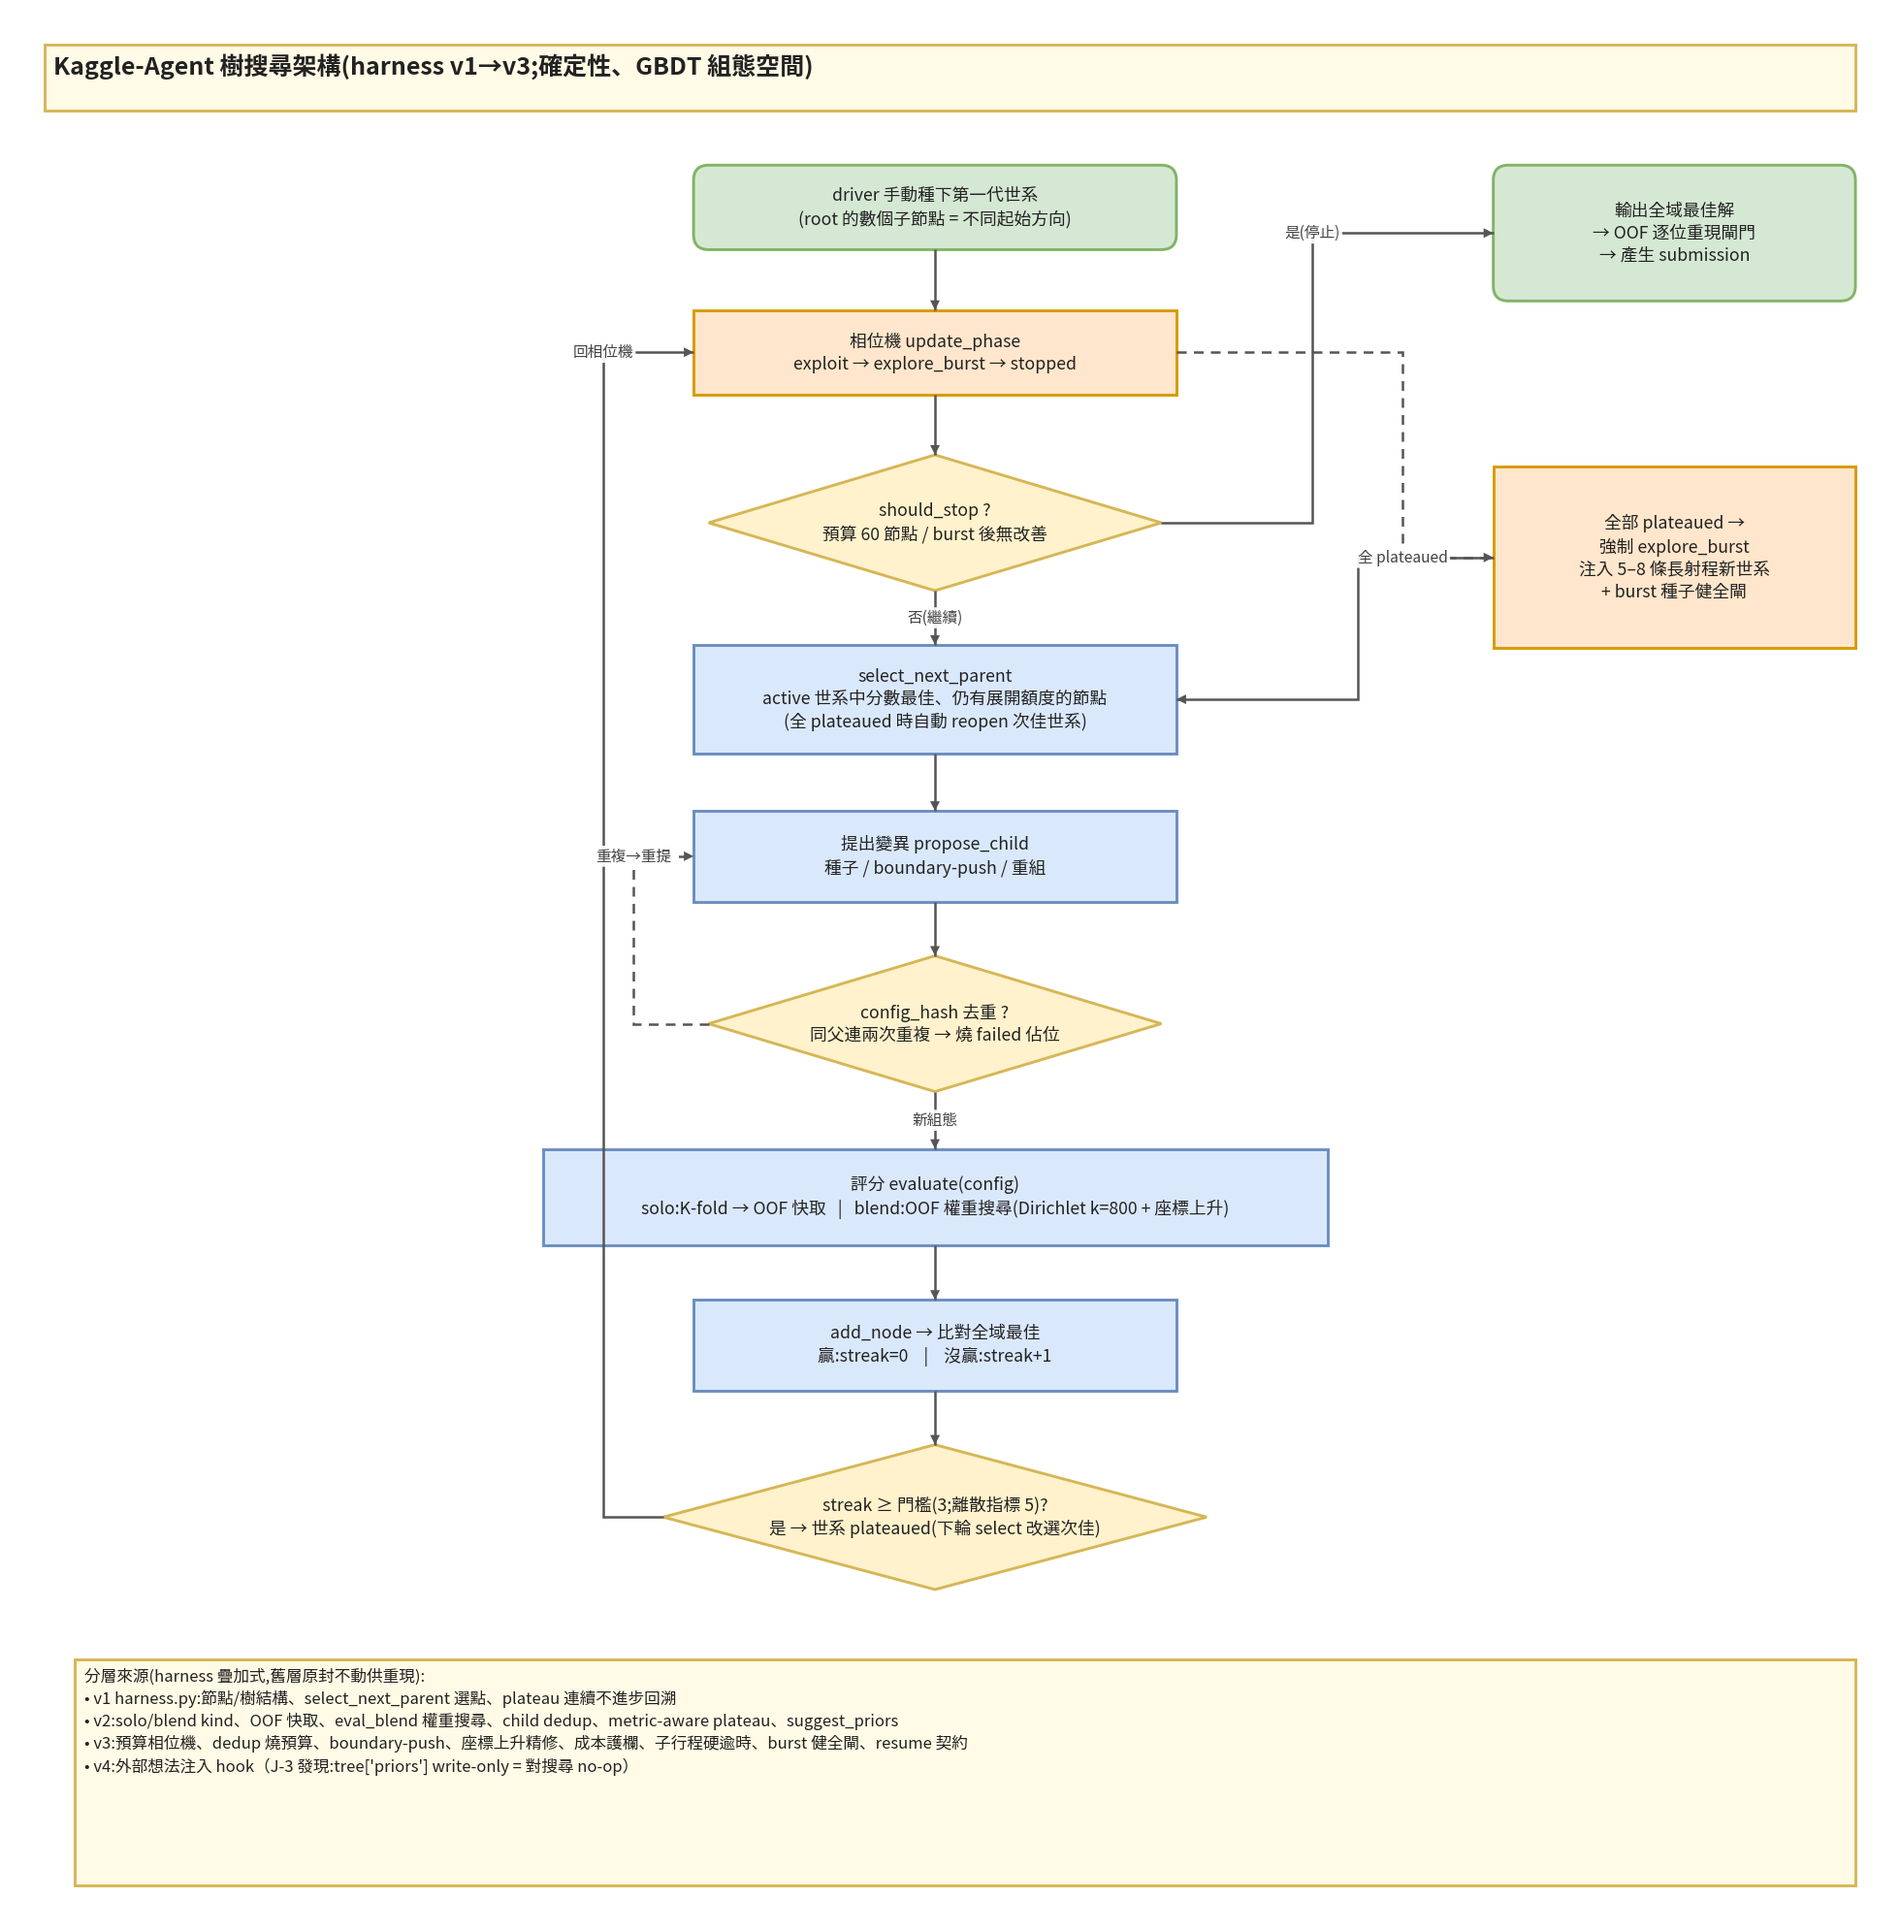
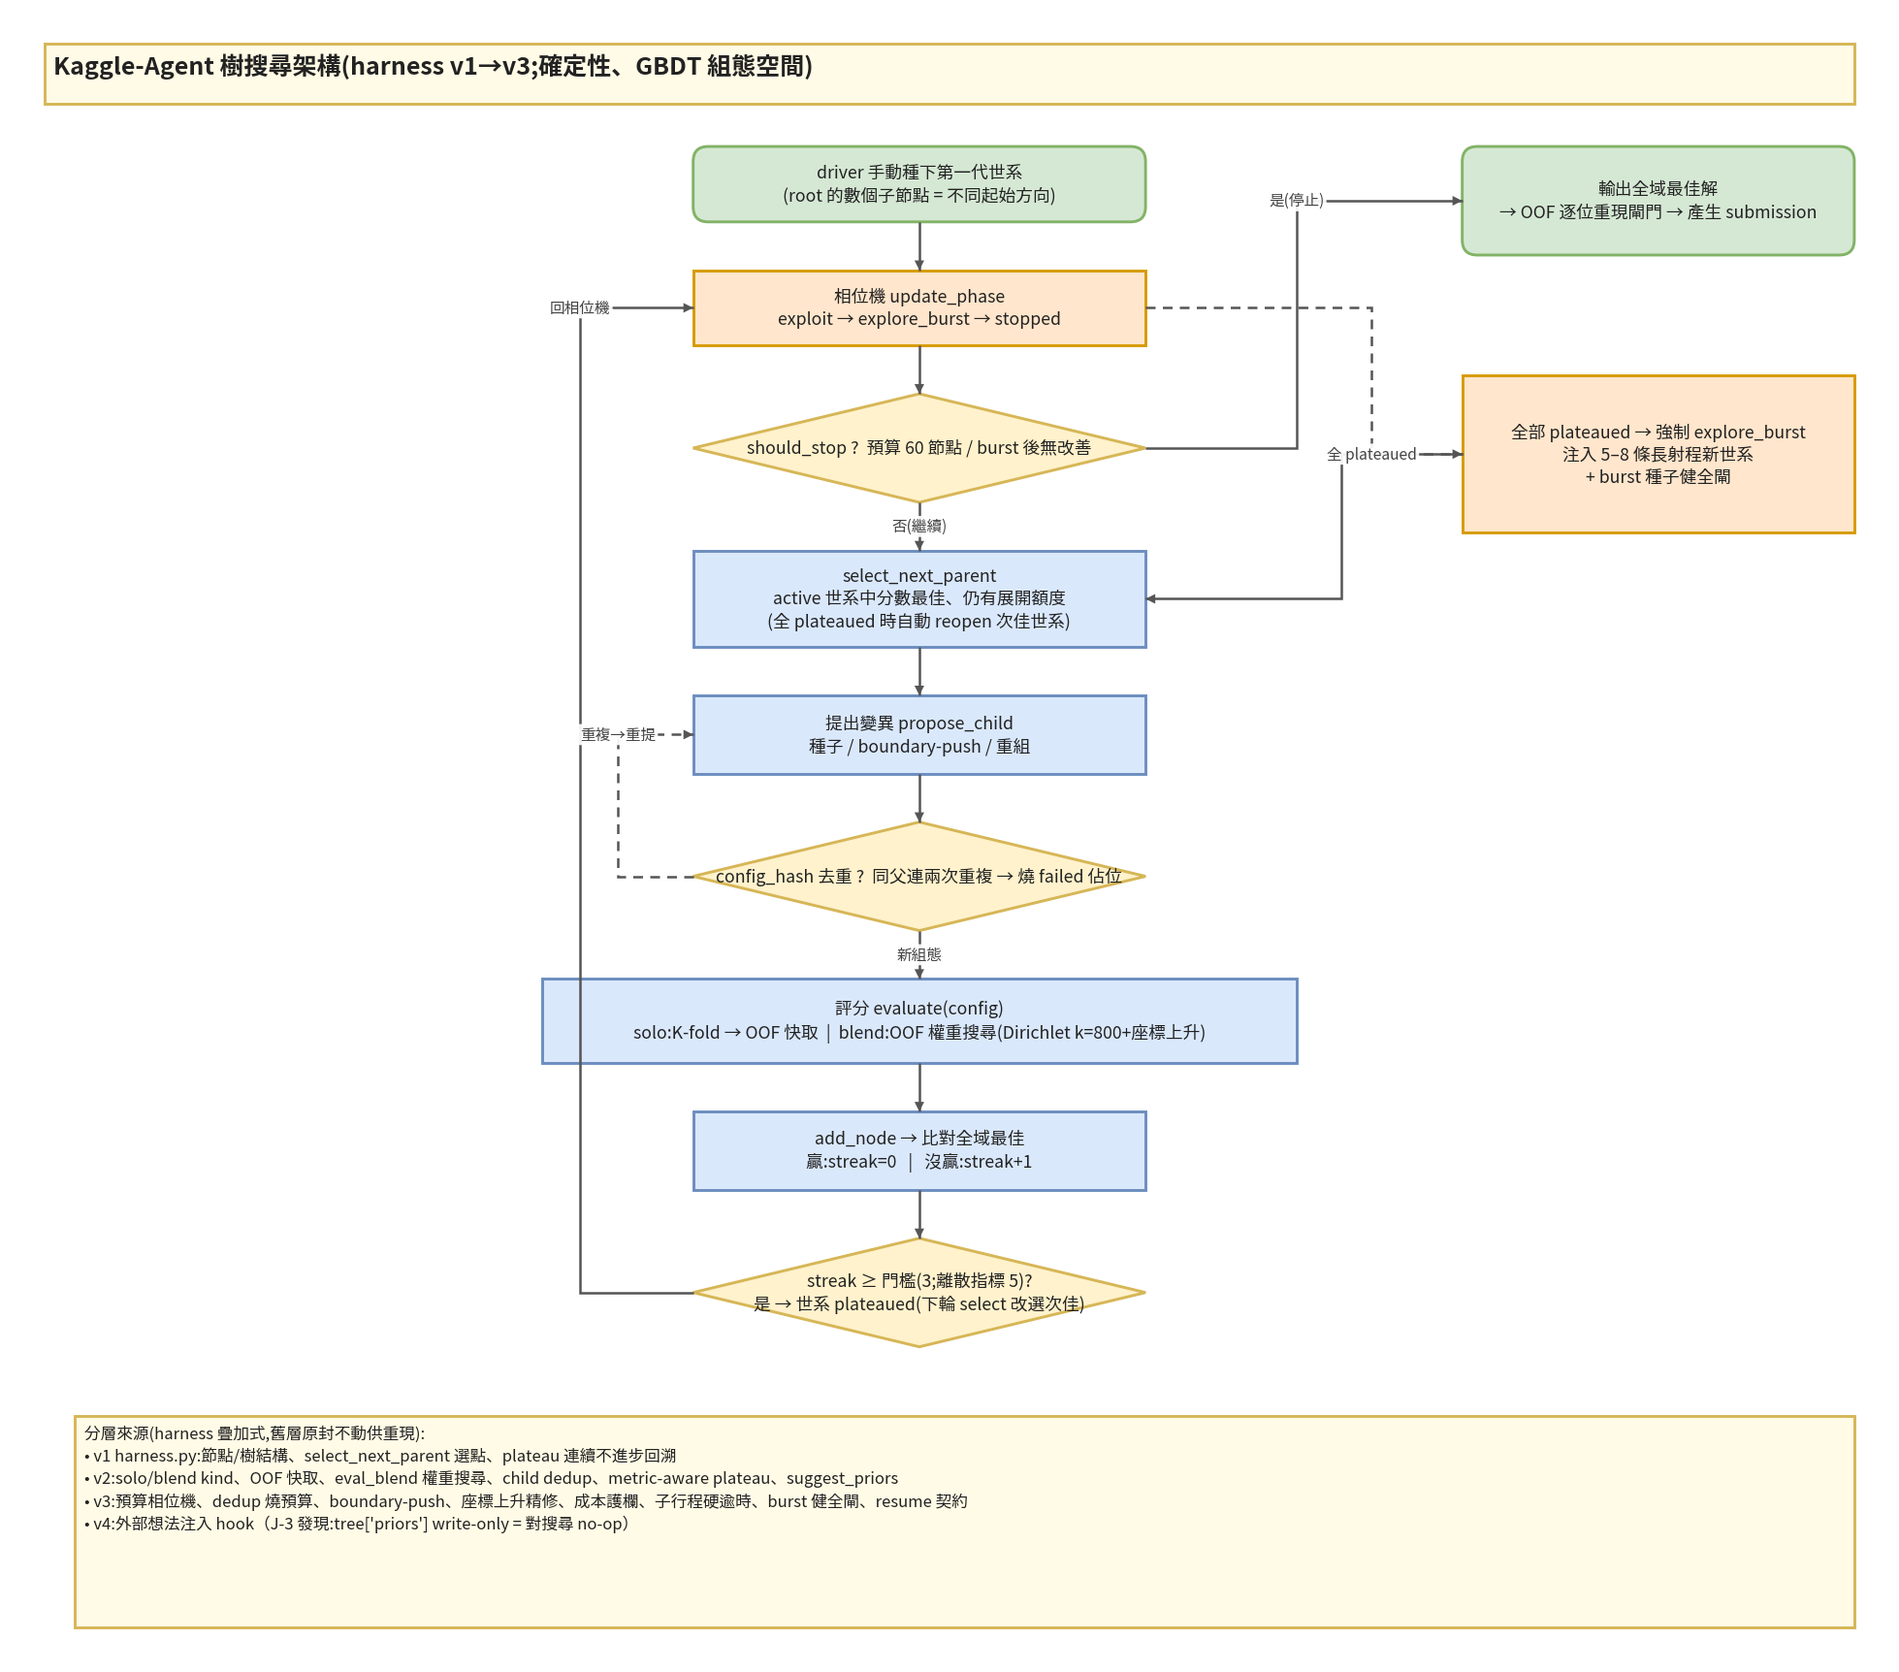
fix(docs): 樹搜尋架構圖壓緊版面——格子貼合文字、線不再壓格子
- 降低每個節點高度(字與框留白過大 → 貼合);決策菱形改單行文字
- 上下間距統一縮小(一致 32px),整體更緊湊
- 左側回饋通道 x=395(離主軸格子左緣 470 有 75px 淨距),回相位機/重複→重提不再貼線
- 右側結束/explore 各走獨立通道

diff --git a/docs/scripts/drawio_gen.py b/docs/scripts/drawio_gen.py
@@ -138,41 +138,41 @@ def write_drawio(path: str, nodes: list[Node], edges: list[Edge], *, title: str 
 def _tree_search_diagram():
     """本專案 harness(v1→v3)樹搜尋迴圈的流程圖規格。版面:中央主迴圈,
     左側走回饋通道(loop-back / dup-retry),右側放結束與 explore 分支,底部整條放分層註記。"""
-    CX = 630                       # 主軸中心 x
-    W = 320                        # 一般節點寬
+    CX = 620                       # 主軸中心 x
+    W = 300                        # 一般節點寬
     XP = CX - W / 2                # 一般節點左緣 = 470
     DW = 300                       # 決策(菱形)寬
-    XD = CX - DW / 2               # 決策左緣 = 480
-    RX = 1000                      # 右欄左緣
+    XD = CX - DW / 2               # 決策左緣 = 470
+    RX = 980                       # 右欄左緣
     nodes = [
         Node("t", "Kaggle-Agent 樹搜尋架構(harness v1→v3;確定性、GBDT 組態空間)",
-             40, 20, 1200, 44, style="note",
+             40, 20, 1200, 40, style="note",
              extra_style="fontSize=14;fontStyle=1;align=center;verticalAlign=middle;fillColor=#eef3fb;strokeColor=#6c8ebf;"),
 
         Node("seed", "driver 手動種下第一代世系\n(root 的數個子節點 = 不同起始方向)",
-             XP, 100, W, 56, style="start"),
+             XP, 88, W, 50, style="start"),
         Node("phase", "相位機 update_phase\nexploit → explore_burst → stopped",
-             XP, 196, W, 56, style="accent"),
-        Node("stop", "should_stop ?\n預算 60 節點 / burst 後無改善",
-             XD, 292, DW, 90, style="decision"),
-        Node("select", "select_next_parent\nactive 世系中分數最佳、仍有展開額度的節點\n(全 plateaued 時自動 reopen 次佳世系)",
-             XP, 418, W, 72, style="process"),
+             XP, 170, W, 50, style="accent"),
+        Node("stop", "should_stop ?  預算 60 節點 / burst 後無改善",
+             XD, 252, DW, 72, style="decision"),
+        Node("select", "select_next_parent\nactive 世系中分數最佳、仍有展開額度\n(全 plateaued 時自動 reopen 次佳世系)",
+             XP, 356, W, 64, style="process"),
         Node("propose", "提出變異 propose_child\n種子 / boundary-push / 重組",
-             XP, 528, W, 60, style="process"),
-        Node("dedup", "config_hash 去重 ?\n同父連兩次重複 → 燒 failed 佔位",
-             XD, 624, DW, 90, style="decision"),
-        Node("eval", "評分 evaluate(config)\nsolo:K-fold → OOF 快取   |   blend:OOF 權重搜尋(Dirichlet k=800 + 座標上升)",
-             370, 752, 520, 64, style="process"),
-        Node("add", "add_node → 比對全域最佳\n贏:streak=0    |    沒贏:streak+1",
-             XP, 852, W, 60, style="process"),
+             XP, 452, W, 52, style="process"),
+        Node("dedup", "config_hash 去重 ?  同父連兩次重複 → 燒 failed 佔位",
+             XD, 536, DW, 72, style="decision"),
+        Node("eval", "評分 evaluate(config)\nsolo:K-fold → OOF 快取  |  blend:OOF 權重搜尋(Dirichlet k=800+座標上升)",
+             370, 640, 500, 56, style="process"),
+        Node("add", "add_node → 比對全域最佳\n贏:streak=0   |   沒贏:streak+1",
+             XP, 728, W, 52, style="process"),
         Node("plateau", "streak ≥ 門檻(3;離散指標 5)?\n是 → 世系 plateaued(下輪 select 改選次佳)",
-             XD - 30, 948, DW + 60, 96, style="decision"),
+             XD, 812, DW, 72, style="decision"),
 
         # 右欄:結束 + explore 分支
-        Node("done", "輸出全域最佳解\n→ OOF 逐位重現閘門\n→ 產生 submission",
-             RX, 100, 240, 90, style="end"),
-        Node("burst", "全部 plateaued →\n強制 explore_burst\n注入 5–8 條長射程新世系\n+ burst 種子健全閘",
-             RX, 300, 240, 120, style="accent"),
+        Node("done", "輸出全域最佳解\n→ OOF 逐位重現閘門 → 產生 submission",
+             RX, 88, 260, 72, style="end"),
+        Node("burst", "全部 plateaued → 強制 explore_burst\n注入 5–8 條長射程新世系\n+ burst 種子健全閘",
+             RX, 240, 260, 104, style="accent"),
 
         # 底部整條:各能力來自哪一層(單行不換行)
         Node("layers",
@@ -181,7 +181,7 @@ def _tree_search_diagram():
              "• v2:solo/blend kind、OOF 快取、eval_blend 權重搜尋、child dedup、metric-aware plateau、suggest_priors\n"
              "• v3:預算相位機、dedup 燒預算、boundary-push、座標上升精修、成本護欄、子行程硬逾時、burst 健全閘、resume 契約\n"
              "• v4:外部想法注入 hook（J-3 發現:tree['priors'] write-only = 對搜尋 no-op）",
-             60, 1090, 1180, 150, style="note", extra_style="fontSize=12;"),
+             60, 930, 1180, 140, style="note", extra_style="fontSize=12;"),
     ]
     edges = [
         # 主迴圈(相鄰,直落)
@@ -193,13 +193,13 @@ def _tree_search_diagram():
         Edge("dedup", "eval", "新組態"),
         Edge("eval", "add"),
         Edge("add", "plateau"),
-        # 回饋:左通道
-        Edge("plateau", "phase", "回相位機", points=[(410, 996), (410, 224)]),
-        Edge("dedup", "propose", "重複→重提", dashed=True, points=[(430, 669), (430, 558)]),
-        # 結束 + explore:右側
-        Edge("stop", "done", "是(停止)", points=[(880, 337), (880, 145)]),
-        Edge("phase", "burst", "全 plateaued", dashed=True, points=[(940, 224), (940, 360)]),
-        Edge("burst", "select", points=[(910, 360), (910, 454)]),
+        # 回饋:左通道(x=395,離主軸格子左緣 470 有 75px 淨距)
+        Edge("plateau", "phase", "回相位機", points=[(395, 848), (395, 195)]),
+        Edge("dedup", "propose", "重複→重提", dashed=True, points=[(420, 572), (420, 478)]),
+        # 結束 + explore:右側各走一條通道
+        Edge("stop", "done", "是(停止)", points=[(870, 288), (870, 124)]),
+        Edge("phase", "burst", "全 plateaued", dashed=True, points=[(920, 195), (920, 292)]),
+        Edge("burst", "select", points=[(900, 292), (900, 388)]),
     ]
     return nodes, edges
 
